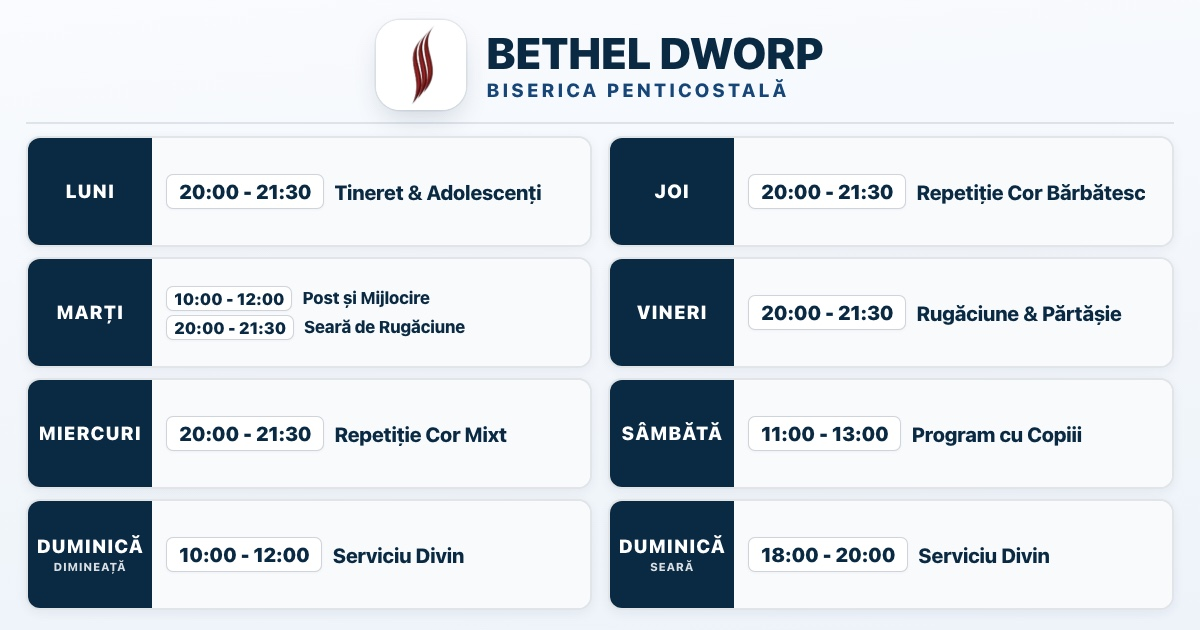
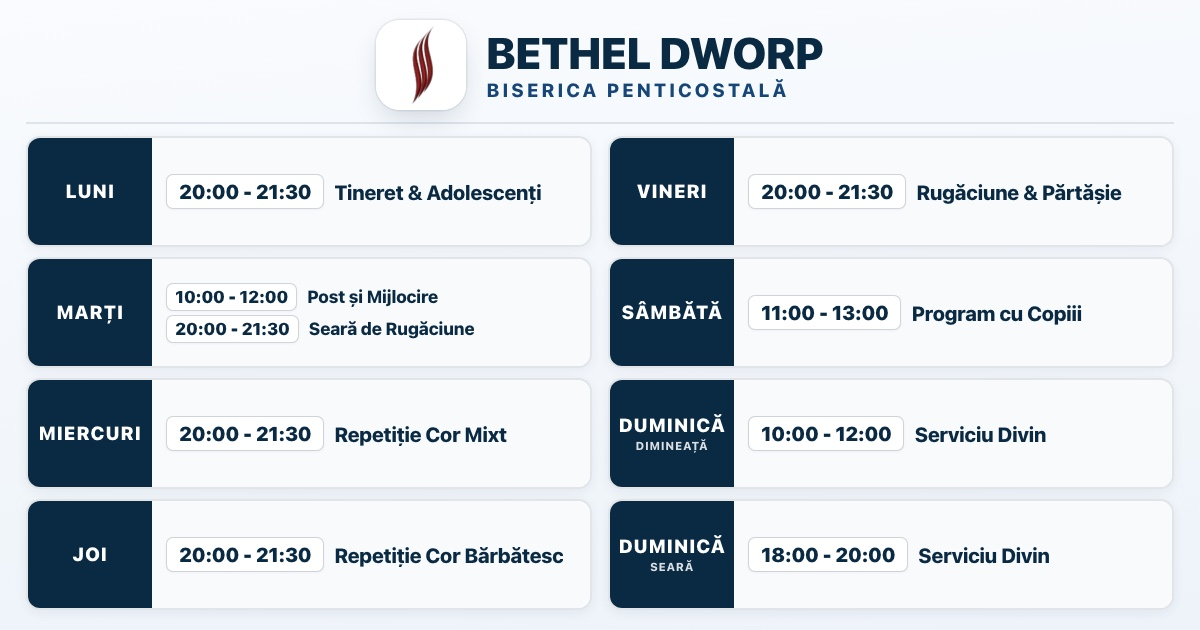
feat(og): order schedule columns strictly Luni-Joi and Vineri-Duminica with v10 image

diff --git a/public/og-template.html b/public/og-template.html
@@ -87,18 +87,26 @@
             white-space: nowrap;
         }
 
-        /* --- GRILLE 2 COLONNES × 4 LIGNES --- */
-        .sched-grid {
-            display: grid;
-            grid-template-columns: 1fr 1fr;
-            grid-template-rows: repeat(4, 1fr);
-            gap: 10px 16px;
+        /* --- 2 COLONNES DE 4 LIGNES CHACUNE --- */
+        .sched-columns {
+            display: flex;
+            flex-direction: row;
+            gap: 16px;
             flex: 1;
             margin-top: 12px;
         }
 
+        .sched-col {
+            flex: 1;
+            display: flex;
+            flex-direction: column;
+            gap: 10px;
+            justify-content: space-between;
+        }
+
         /* CARTE SERVICE */
         .sched-card {
+            flex: 1;
             display: flex;
             flex-direction: row;
             align-items: stretch;
@@ -191,12 +199,12 @@
 
         /* Carte Marți (2 lignes) */
         .sched-card--double .sched-time-badge {
-            padding: 2px 7px;
-            font-size: 16.5px;
+            padding: 3px 8px;
+            font-size: 17px;
         }
 
         .sched-card--double .sched-text {
-            font-size: 17px;
+            font-size: 17.5px;
         }
     </style>
 </head>
@@ -212,114 +220,120 @@
         </div>
     </header>
 
-    <!-- GRILLE 2 COLONNES × 4 LIGNES (8 CASES) -->
-    <main class="sched-grid">
-        <!-- COLONNE 1, LIGNE 1 : LUNI -->
-        <div class="sched-card sched-card--single">
-            <div class="sched-day-tag">
-                LUNI
+    <!-- 2 COLONNES : COLONNE 1 (LUN-JEU) & COLONNE 2 (VIN-DUM) -->
+    <main class="sched-columns">
+        <!-- COLONNE 1 : LUNI, MARȚI, MIERCURI, JOI -->
+        <div class="sched-col">
+            <!-- 1. LUNI -->
+            <div class="sched-card sched-card--single">
+                <div class="sched-day-tag">
+                    LUNI
+                </div>
+                <div class="sched-body">
+                    <div class="sched-item">
+                        <span class="sched-time-badge">20:00 - 21:30</span>
+                        <span class="sched-text">Tineret &amp; Adolescenți</span>
+                    </div>
+                </div>
             </div>
-            <div class="sched-body">
-                <div class="sched-item">
-                    <span class="sched-time-badge">20:00 - 21:30</span>
-                    <span class="sched-text">Tineret &amp; Adolescenți</span>
+
+            <!-- 2. MARȚI (2 SERVICES) -->
+            <div class="sched-card sched-card--double">
+                <div class="sched-day-tag">
+                    MARȚI
+                </div>
+                <div class="sched-body">
+                    <div class="sched-item">
+                        <span class="sched-time-badge">10:00 - 12:00</span>
+                        <span class="sched-text">Post și Mijlocire</span>
+                    </div>
+                    <div class="sched-item">
+                        <span class="sched-time-badge">20:00 - 21:30</span>
+                        <span class="sched-text">Seară de Rugăciune</span>
+                    </div>
+                </div>
+            </div>
+
+            <!-- 3. MIERCURI -->
+            <div class="sched-card sched-card--single">
+                <div class="sched-day-tag">
+                    MIERCURI
+                </div>
+                <div class="sched-body">
+                    <div class="sched-item">
+                        <span class="sched-time-badge">20:00 - 21:30</span>
+                        <span class="sched-text">Repetiție Cor Mixt</span>
+                    </div>
+                </div>
+            </div>
+
+            <!-- 4. JOI -->
+            <div class="sched-card sched-card--single">
+                <div class="sched-day-tag">
+                    JOI
+                </div>
+                <div class="sched-body">
+                    <div class="sched-item">
+                        <span class="sched-time-badge">20:00 - 21:30</span>
+                        <span class="sched-text">Repetiție Cor Bărbătesc</span>
+                    </div>
                 </div>
             </div>
         </div>
 
-        <!-- COLONNE 2, LIGNE 1 : JOI -->
-        <div class="sched-card sched-card--single">
-            <div class="sched-day-tag">
-                JOI
-            </div>
-            <div class="sched-body">
-                <div class="sched-item">
-                    <span class="sched-time-badge">20:00 - 21:30</span>
-                    <span class="sched-text">Repetiție Cor Bărbătesc</span>
+        <!-- COLONNE 2 : VINERI, SÂMBĂTĂ, DUMINICĂ DIMINEAȚĂ, DUMINICĂ SEARĂ -->
+        <div class="sched-col">
+            <!-- 5. VINERI -->
+            <div class="sched-card sched-card--single">
+                <div class="sched-day-tag">
+                    VINERI
+                </div>
+                <div class="sched-body">
+                    <div class="sched-item">
+                        <span class="sched-time-badge">20:00 - 21:30</span>
+                        <span class="sched-text">Rugăciune &amp; Părtășie</span>
+                    </div>
                 </div>
             </div>
-        </div>
 
-        <!-- COLONNE 1, LIGNE 2 : MARȚI (2 SERVICES) -->
-        <div class="sched-card sched-card--double">
-            <div class="sched-day-tag">
-                MARȚI
-            </div>
-            <div class="sched-body">
-                <div class="sched-item">
-                    <span class="sched-time-badge">10:00 - 12:00</span>
-                    <span class="sched-text">Post și Mijlocire</span>
+            <!-- 6. SÂMBĂTĂ -->
+            <div class="sched-card sched-card--single">
+                <div class="sched-day-tag">
+                    SÂMBĂTĂ
                 </div>
-                <div class="sched-item">
-                    <span class="sched-time-badge">20:00 - 21:30</span>
-                    <span class="sched-text">Seară de Rugăciune</span>
+                <div class="sched-body">
+                    <div class="sched-item">
+                        <span class="sched-time-badge">11:00 - 13:00</span>
+                        <span class="sched-text">Program cu Copiii</span>
+                    </div>
                 </div>
             </div>
-        </div>
 
-        <!-- COLONNE 2, LIGNE 2 : VINERI -->
-        <div class="sched-card sched-card--single">
-            <div class="sched-day-tag">
-                VINERI
-            </div>
-            <div class="sched-body">
-                <div class="sched-item">
-                    <span class="sched-time-badge">20:00 - 21:30</span>
-                    <span class="sched-text">Rugăciune &amp; Părtășie</span>
+            <!-- 7. DUMINICĂ DIMINEAȚĂ -->
+            <div class="sched-card sched-card--single">
+                <div class="sched-day-tag">
+                    DUMINICĂ
+                    <span class="sched-day-sub">DIMINEAȚĂ</span>
+                </div>
+                <div class="sched-body">
+                    <div class="sched-item">
+                        <span class="sched-time-badge">10:00 - 12:00</span>
+                        <span class="sched-text">Serviciu Divin</span>
+                    </div>
                 </div>
             </div>
-        </div>
 
-        <!-- COLONNE 1, LIGNE 3 : MIERCURI -->
-        <div class="sched-card sched-card--single">
-            <div class="sched-day-tag">
-                MIERCURI
-            </div>
-            <div class="sched-body">
-                <div class="sched-item">
-                    <span class="sched-time-badge">20:00 - 21:30</span>
-                    <span class="sched-text">Repetiție Cor Mixt</span>
+            <!-- 8. DUMINICĂ SEARĂ -->
+            <div class="sched-card sched-card--single">
+                <div class="sched-day-tag">
+                    DUMINICĂ
+                    <span class="sched-day-sub">SEARĂ</span>
                 </div>
-            </div>
-        </div>
-
-        <!-- COLONNE 2, LIGNE 3 : SÂMBĂTĂ -->
-        <div class="sched-card sched-card--single">
-            <div class="sched-day-tag">
-                SÂMBĂTĂ
-            </div>
-            <div class="sched-body">
-                <div class="sched-item">
-                    <span class="sched-time-badge">11:00 - 13:00</span>
-                    <span class="sched-text">Program cu Copiii</span>
-                </div>
-            </div>
-        </div>
-
-        <!-- COLONNE 1, LIGNE 4 : DUMINICĂ DIMINEAȚĂ -->
-        <div class="sched-card sched-card--single">
-            <div class="sched-day-tag">
-                DUMINICĂ
-                <span class="sched-day-sub">DIMINEAȚĂ</span>
-            </div>
-            <div class="sched-body">
-                <div class="sched-item">
-                    <span class="sched-time-badge">10:00 - 12:00</span>
-                    <span class="sched-text">Serviciu Divin</span>
-                </div>
-            </div>
-        </div>
-
-        <!-- COLONNE 2, LIGNE 4 : DUMINICĂ SEARĂ -->
-        <div class="sched-card sched-card--single">
-            <div class="sched-day-tag">
-                DUMINICĂ
-                <span class="sched-day-sub">SEARĂ</span>
-            </div>
-            <div class="sched-body">
-                <div class="sched-item">
-                    <span class="sched-time-badge">18:00 - 20:00</span>
-                    <span class="sched-text">Serviciu Divin</span>
+                <div class="sched-body">
+                    <div class="sched-item">
+                        <span class="sched-time-badge">18:00 - 20:00</span>
+                        <span class="sched-text">Serviciu Divin</span>
+                    </div>
                 </div>
             </div>
         </div>

diff --git a/app/[lang]/romanian-pentecostal-churches-map/layout.jsx b/app/[lang]/romanian-pentecostal-churches-map/layout.jsx
@@ -38,13 +38,13 @@ export async function generateMetadata({ params }) {
             description: DESCRIPTIONS.ro,
             url: `${SITE_URL}/${l}${PATH}`,
             locale: "ro_RO",
-            images: [{ url: "/images/og-v9.jpg", width: 1200, height: 630, alt: `${TITLES.ro} | Bethel Dworp` }],
+            images: [{ url: "/images/og-v10.jpg", width: 1200, height: 630, alt: `${TITLES.ro} | Bethel Dworp` }],
         },
         twitter: {
             card: "summary_large_image",
             title: `${TITLES.ro} | Bethel Dworp`,
             description: DESCRIPTIONS.ro,
-            images: ["/images/og-v9.jpg"],
+            images: ["/images/og-v10.jpg"],
         },
     };
 }

diff --git a/app/[lang]/layout.jsx b/app/[lang]/layout.jsx
@@ -64,13 +64,13 @@ export async function generateMetadata({ params }) {
             description: DESCRIPTIONS.ro,
             url: `${SITE_URL}/${l}`,
             locale: "ro_RO",
-            images: [{ url: "/images/og-v9.jpg", width: 1200, height: 630, alt: TITLES.ro }],
+            images: [{ url: "/images/og-v10.jpg", width: 1200, height: 630, alt: TITLES.ro }],
         },
         twitter: {
             card: "summary_large_image",
             title: TITLES.ro,
             description: DESCRIPTIONS.ro,
-            images: ["/images/og-v9.jpg"],
+            images: ["/images/og-v10.jpg"],
         },
     };
 }
